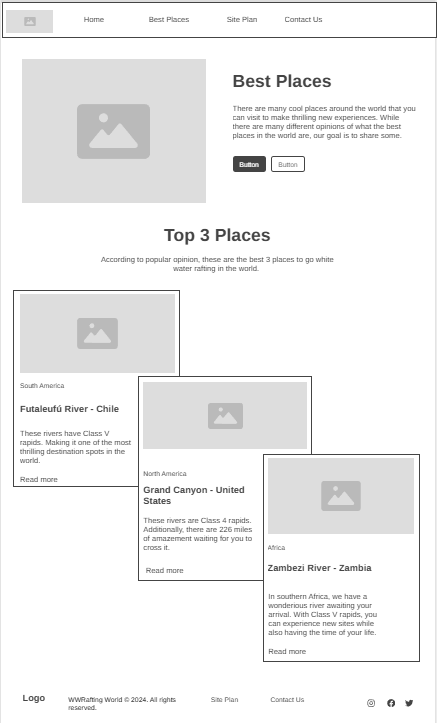
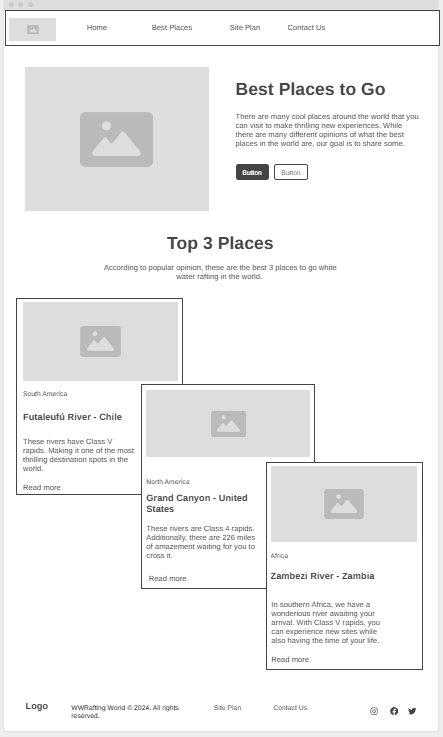
ice_challenge

diff --git a/ice_challenge/week_9_challenge.html b/ice_challenge/week_9_challenge.html
@@ -1,0 +1,35 @@
+<!DOCTYPE html>
+<html lang="en">
+<head>
+    <meta charset="UTF-8">
+    <meta name="viewport" content="width=device-width, initial-scale=1.0">
+    <title>W9 Ice Challenge</title>
+    <link rel="stylesheet" href="week_9_styles.css">
+</head>
+<body>
+    <div class="main-box">
+    <section id="hero">
+    <img id="heroimg" src="w09_ice_img.jpg" alt="City Scape">
+    </section>
+    <main>
+    <h2>3 weeks ago</h2>
+    <h1>Post Three</h1>
+    <p class="text">Lorem ipsum dolor sit amet, consectetur adipiscing elit, sed do eiusmod tempor incididunt ut labore et dolore magna aliqua. Ut enim ad minim veniam, quis nostrud exercitation ullamco laboris nisi ut aliquip ex ea commodo consequat. Duis aute irure dolor in reprehenderit in voluptate velit esse cillum dolore eu fugiat nulla pariatur. Excepteur sint occaecat cupidatat non proident, sunt in culpa qui officia deserunt mollit anim id est laborum.</p>
+    </main>
+    
+    <footer>
+        <div>
+            <section class="read">
+                <p>5m Read</p>
+            </section>
+            <section class="views">
+                <p>2031 Views</p>
+            </section>
+            <section class="comments">
+                <p>15 Comments</p>
+            </section>
+        </div>
+    </div>
+    </footer>
+</body>
+</html>

diff --git a/ice_challenge/week_9_styles.css b/ice_challenge/week_9_styles.css
@@ -1,0 +1,39 @@
+#background {
+    background-color: darkgrey;
+}
+
+.main-box{
+    align-content: center;
+    text-align: center;
+    align-items: center;
+    box-sizing: border-box;
+    width: 500px;
+}
+
+#heroimg {
+    width: 100%;
+}
+
+h2 {
+    color: navy;
+}
+
+.text {
+    padding-left: 10%;
+    padding-right: 10%;
+    padding-bottom: 5%;
+}
+
+footer {
+    grid-template-columns: 10px 10px 10px;
+}
+
+.read {
+    grid-column: 1/2;
+    text-align: left;
+}
+
+.comments {
+    grid-column: 3/4;
+    text-align: right;
+}

diff --git a/wwr/best-places-to-go.html b/wwr/best-places-to-go.html
@@ -3,7 +3,7 @@
 <head>
     <meta charset="UTF-8">
     <meta name="viewport" content="width=device-width, initial-scale=1.0">
-    <title>White Water Rafting World | Home </title>
+    <title>Best Places to Go| White Water Rafting World | Home </title>
     <link rel="stylesheet" href="styles.css">
 </head>
 <body>
